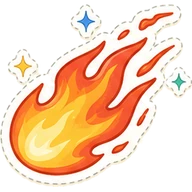
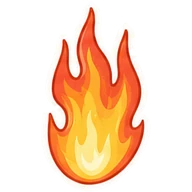
1.0.7 : Facile par défaut pour tout joueur qui n'a jamais choisi, flamme de série redressée
Les joueurs d'avant la 1.0.5 restaient en Normal faute de choix enregistré ;
seul un choix fait dans la feuille est désormais retenu. La flamme, penchée
et entourée d'étincelles, paraissait petite et décentrée dans la pastille.

diff --git a/erea_flutter/lib/data/store.dart b/erea_flutter/lib/data/store.dart
@@ -168,11 +168,9 @@ class Store {
       _put(() => _prefs.setBool('opt.haptics', v));
 
   /// Dernière difficulté choisie pour le Classique (nom de l'enum
-  /// `Difficulty`). Absente : un nouveau joueur part en Facile — le
-  /// Normal d'emblée décourageait —, un joueur qui avait déjà des parties
-  /// avant la 1.0.5 garde le Normal qu'il a toujours connu.
-  String get difficulteChoisie =>
-      _prefs.getString('opt.diff') ?? (games == 0 ? 'facile' : 'normal');
+  /// `Difficulty`). Absente, c'est Facile : le Normal d'emblée
+  /// décourageait. Seul un choix fait dans la feuille est retenu.
+  String get difficulteChoisie => _prefs.getString('opt.diff') ?? 'facile';
   Future<void> setDifficulteChoisie(String nom) =>
       _put(() => _prefs.setString('opt.diff', nom));
 

diff --git a/erea_flutter/test/core_test.dart b/erea_flutter/test/core_test.dart
@@ -354,10 +354,10 @@ void main() {
       expect(s.difficulteChoisie, 'facile');
     });
 
-    test('un joueur d’avant la 1.0.5 garde le Normal', () async {
+    test('un joueur qui n’a jamais choisi part aussi en Facile', () async {
       SharedPreferences.setMockInitialValues({'games': 12});
       final s = await Store.load();
-      expect(s.difficulteChoisie, 'normal');
+      expect(s.difficulteChoisie, 'facile');
     });
 
     test('le dernier choix est retenu', () async {

diff --git a/docs/PUBLICATION.md b/docs/PUBLICATION.md
@@ -33,7 +33,7 @@
 
 - **iOS** : **1.0.5 (build 195) en ligne depuis le 21 octobre 2026 à 17 h 44** ; avant elle, la 1.0.4 (build 182) a été mise en ligne le 15 octobre 2026 à 14 h 01, soumise à 12 h 51 et publiée automatiquement à l'approbation ; nouveau nom « Erea : Quiz d'histoire & frise »
 - **Android** : **accès à la production accordé le 17 octobre 2026** (demandé le 14 octobre à 18 h 39) ; **release de production `5 (1.0.4)` envoyée pour examen le 17 octobre vers 8 h 25**, promue depuis la piste Alpha, déploiement complet, publication gérée désactivée ; première mise en ligne sur Google Play le 20 octobre 2026 à 16 h 07 ; **1.0.6 (versionCode 7) en ligne depuis le 22 octobre 2026**, après la 1.0.5 le 21 octobre
-- **Version dans le code** : `1.0.7+8` depuis le 30 octobre 2026, pas encore envoyée — un seul rappel du soir, au soir où la série est en jeu (au lieu de sept qui pouvaient annoncer une série déjà perdue), question cachée pendant la pause du Chrono, aucune pub demandée sans consentement valable, doublon « La radio franchit l'Atlantique » retiré (1 830 faits), deux phrases corrigées (choix du pays, Défi du jour), rappel coupé par le joueur jamais rallumé, Chrono figé derrière la boîte « Quitter ? », écran de révélation qui tient sur iPhone SE en très grande police, lien « Confidentialité » dans les réglages, pubs de test de Google en mode debug, écran Album, Classique en pleine largeur sur l'accueil, icônes dessinées à la place des emoji de l'interface ; avant elle, `1.0.6+7` à partir du 21 octobre au soir (le build 196, encore en 1.0.5, a été refusé après l'approbation) ; elle n'ajoute que la réduction optimisée des ressources par R8 et part sur Google Play seul (bundle `versionCode 7`, copie dans iCloud → Erea), rien ne change sur iPhone ; la `1.0.5+6` a été envoyée le 21 octobre 2026 (build iOS `195`, bundle Android `versionCode 6`, copie dans iCloud → Erea) : la bonne année en grand à la révélation, Facile par défaut et niveau retenu, succès sous la carte de niveau en fin de partie, icône adaptative Android, notification en silhouette, logo au démarrage ; Flutter figé à 3.47.3 sur Xcode Cloud
+- **Version dans le code** : `1.0.7+8` depuis le 30 octobre 2026, pas encore envoyée — un seul rappel du soir, au soir où la série est en jeu (au lieu de sept qui pouvaient annoncer une série déjà perdue), question cachée pendant la pause du Chrono, aucune pub demandée sans consentement valable, doublon « La radio franchit l'Atlantique » retiré (1 830 faits), deux phrases corrigées (choix du pays, Défi du jour), rappel coupé par le joueur jamais rallumé, Chrono figé derrière la boîte « Quitter ? », écran de révélation qui tient sur iPhone SE en très grande police, lien « Confidentialité » dans les réglages, pubs de test de Google en mode debug, écran Album, Classique en pleine largeur sur l'accueil, icônes dessinées à la place des emoji de l'interface, flamme de série redressée, Facile par défaut pour tout joueur qui n'a jamais choisi de difficulté (les joueurs d'avant la 1.0.5 restaient en Normal) ; le build 209 (30 octobre, 12 h 45) a servi au premier essai sur TestFlight ; avant elle, `1.0.6+7` à partir du 21 octobre au soir (le build 196, encore en 1.0.5, a été refusé après l'approbation) ; elle n'ajoute que la réduction optimisée des ressources par R8 et part sur Google Play seul (bundle `versionCode 7`, copie dans iCloud → Erea), rien ne change sur iPhone ; la `1.0.5+6` a été envoyée le 21 octobre 2026 (build iOS `195`, bundle Android `versionCode 6`, copie dans iCloud → Erea) : la bonne année en grand à la révélation, Facile par défaut et niveau retenu, succès sous la carte de niveau en fin de partie, icône adaptative Android, notification en silhouette, logo au démarrage ; Flutter figé à 3.47.3 sur Xcode Cloud
 - **Identifiant** : `com.teiki.erea`, identique sur les deux plateformes
 - **Achat intégré** : `com.teiki.erea.sanspub` « Erea sans publicité », 3,99 €, non consommable — **approuvé** sur l'App Store, **actif** sur Google Play
 - **Monétisation** : interstitielle AdMob une partie sur deux, consentement RGPD publié le 3 septembre 2026
